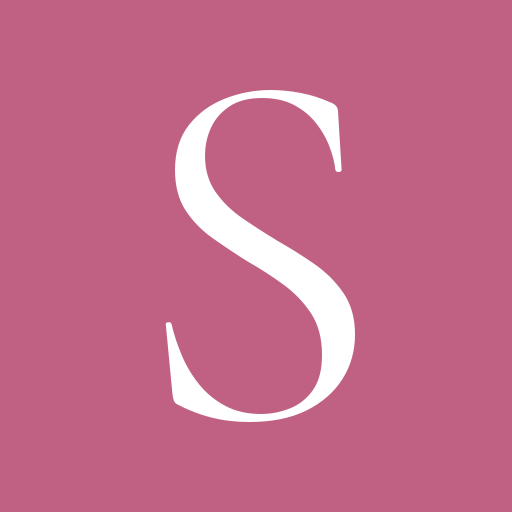
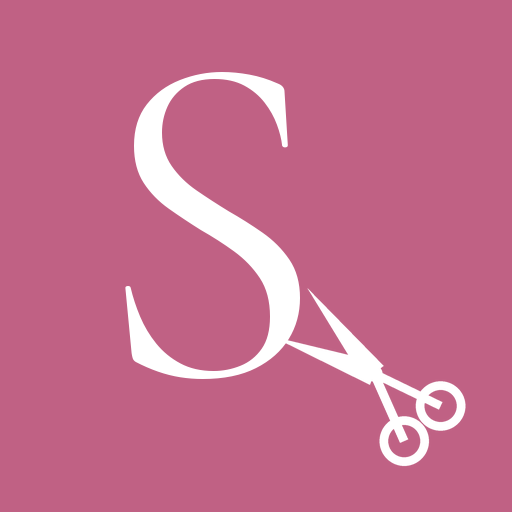
Las tijeras en el icono, con arte distinto por tamaño
El salón las pidió, y tenían razón: dicen "salón" al instante donde una
letra sola no dice nada. Las del logo no servían —59x42 px, borrosas al
ampliar—, así que van dibujadas en vector: las hojas son triángulos que
nacen anchos en el tornillo y mueren en punta, porque con grosor constante
se leen como dos palos.

Medido a cada tamaño: la S con las tijeras aguanta hasta 48 px y de ahí
para abajo las dos juntas se vuelven mancha. La pestaña del navegador usa
16 o 32. Así que el .ico lleva arte distinto en cada tamaño, que es para
lo que existe el formato: marca completa en 48, S sola en 32 y 16.

Comprobado extrayendo las tres caras del .ico y comparándolas contra los
dos dibujos: cada una coincide exacto con el que le toca (diferencia 0.00)
y no con el otro (8.4, 11.6 y 9.0).

Los iconos grandes —pantalla de inicio de iPhone, PWA a 192 y 512— llevan
siempre la marca completa, que ahí se ve entera.

Claude-Session: https://claude.ai/code/session_01MdQ4cBDsNs5P84nuUxicTy

diff --git a/stilo-salon/iconos.py b/stilo-salon/iconos.py
@@ -1,21 +1,23 @@
 #!/usr/bin/env python3
 """Genera el favicon y los iconos de la app desde cero.
 
-Por qué una "S" tipográfica y no el logo: el logo es una escritura de trazo
-finísimo, y a 16 px —el tamaño real de una pestaña— desaparece.  Peor: la
-palabra "Stilo" está escrita de un solo trazo continuo, sin un solo píxel
-vacío entre la S y la t, así que ni siquiera se puede recortar la inicial.
-Las tijeras sí se pueden aislar por color, pero miden 59x42 px en el
-original y estiradas a 512 quedan borrosas.
+Por qué no se usa el logo tal cual: la palabra "Stilo" está escrita de un
+solo trazo continuo —no hay una sola columna de píxeles vacía entre la S y
+la t, está comprobado—, así que la inicial no se puede recortar.  Las
+tijeras del logo sí se aíslan por color, pero miden 59x42 px y estiradas a
+512 quedan borrosas.  Por eso la S es tipográfica (Cormorant Garamond, la
+de los títulos del sitio) y las tijeras van dibujadas en vector aquí.
 
-La salida es la inicial en Cormorant Garamond, que es la tipografía de los
-títulos del sitio, blanca sobre el rosa de la marca.  Se lee a 16 px y en
-una barra de pestañas llena se distingue de un vistazo, que es lo único
-que le pedimos a un favicon.
+Por qué hay dos dibujos y no uno: la S con las tijeras se lee bien hasta 48
+px, y de ahí para abajo las dos cosas juntas se convierten en una mancha.
+La pestaña del navegador usa 16 o 32.  Así que el .ico lleva arte distinto
+en cada tamaño —para eso existe el formato—: la marca completa en 48, y la
+S sola en 32 y 16, donde es lo único que se distingue.  Los iconos grandes
+(pantalla de inicio, PWA) llevan siempre la marca completa.
 
     python3 iconos.py
 """
-import json, pathlib, urllib.request
+import json, math, pathlib, urllib.request
 from PIL import Image, ImageDraw, ImageFont
 
 RAIZ = pathlib.Path(__file__).parent
@@ -38,40 +40,82 @@ def fuente_ttf() -> pathlib.Path:
     return FUENTE_CACHE
 
 
-def marca(lado: int) -> Image.Image:
-    """La S centrada ópticamente por su caja real, no por la métrica.
+def tijeras(lado: int, color) -> Image.Image:
+    """Tijeras de peluquería, dibujadas al tamaño que se pidan.
 
-    El centrado por métrica deja la letra flotando alta, porque la caja de
-    la fuente reserva sitio para acentos y descendentes que la S no usa.
+    Se trazan a cuatro veces el tamaño final y se bajan con LANCZOS: así el
+    filo queda limpio sin depender del antialias del dibujante.  Las hojas
+    son triángulos que nacen anchos en el tornillo y mueren en punta, que es
+    lo que las hace legibles en chico; con grosor constante se leen como dos
+    palos.
     """
-    im = Image.new("RGBA", (lado, lado), ROSA)
+    S = lado * 4
+    im = Image.new("RGBA", (S, S), (0, 0, 0, 0))
     d = ImageDraw.Draw(im)
-    ruta = str(fuente_ttf())
-    pt = lado
-    while pt > 4:
-        f = ImageFont.truetype(ruta, pt)
+    px, py = S * 0.46, S * 0.50                      # el tornillo
+    pt = lambda a, r: (px + r * math.cos(math.radians(a)),
+                       py + r * math.sin(math.radians(a)))
+    for ang in (-160, -128):                          # las dos hojas
+        d.polygon([pt(ang + 90, S * 0.052), pt(ang, S * 0.46),
+                   pt(ang - 90, S * 0.052)], fill=color)
+    raro, g = S * 0.105, max(2, int(S * 0.038))
+    for ang in (26, 66):                              # brazos y aros
+        c = pt(ang, S * 0.315)
+        d.line([(px, py), c], fill=color, width=g)
+        d.ellipse([c[0] - raro, c[1] - raro, c[0] + raro, c[1] + raro],
+                  outline=color, width=g)
+    d.ellipse([px - S * 0.035, py - S * 0.035,
+               px + S * 0.035, py + S * 0.035], fill=color)
+    return im.resize((lado, lado), Image.LANCZOS)
+
+
+def _ese(im: Image.Image, ocupa: float, dx=0.0, dy=0.0) -> Image.Image:
+    """La S centrada por su caja real, no por la métrica de la fuente.
+
+    La métrica reserva sitio para acentos y descendentes que la S no usa, así
+    que centrar por ella deja la letra flotando alta.
+    """
+    d = ImageDraw.Draw(im)
+    L, ruta, pt_ = im.width, str(fuente_ttf()), im.width
+    while pt_ > 4:
+        f = ImageFont.truetype(ruta, pt_)
         x0, y0, x1, y1 = d.textbbox((0, 0), LETRA, font=f)
-        if (y1 - y0) <= lado * OCUPA:
+        if (y1 - y0) <= L * ocupa:
             break
-        pt -= 1
-    f = ImageFont.truetype(ruta, pt)
+        pt_ -= 1
+    f = ImageFont.truetype(ruta, pt_)
     x0, y0, x1, y1 = d.textbbox((0, 0), LETRA, font=f)
-    d.text(((lado - (x1 - x0)) / 2 - x0, (lado - (y1 - y0)) / 2 - y0),
-           LETRA, font=f, fill=BLANCO)
+    d.text(((L - (x1 - x0)) / 2 - x0 + L * dx,
+            (L - (y1 - y0)) / 2 - y0 + L * dy), LETRA, font=f, fill=BLANCO)
     return im
+
+
+def marca(lado: int) -> Image.Image:
+    """La marca completa: la S con las tijeras colgando de su cola.
+
+    Es la misma idea del logo, donde el rasgo final termina en las tijeras.
+    """
+    im = _ese(Image.new("RGBA", (lado, lado), ROSA), 0.60, -0.09, -0.06)
+    t = tijeras(int(lado * 0.46), BLANCO)
+    im.paste(t, (int(lado * 0.52), int(lado * 0.50)), t)
+    return im
+
+
+def inicial(lado: int) -> Image.Image:
+    """Solo la S, para los tamaños donde las tijeras ya no se distinguen."""
+    return _ese(Image.new("RGBA", (lado, lado), ROSA), 0.66)
 
 
 def main():
     assets = RAIZ / "assets"
-    # El .ico lleva los tres tamaños dentro: el navegador escoge. Cada uno se
-    # dibuja a su tamaño en vez de reescalar el grande, así el trazo no se
-    # adelgaza hasta desaparecer en el de 16.
-    caras = [marca(n) for n in (16, 32, 48)]
+    # 48 lleva la marca completa; 32 y 16 solo la inicial, porque ahí las
+    # tijeras ya no se ven y solo ensucian la letra.
+    caras = [inicial(16), inicial(32), marca(48)]
     caras[2].save(RAIZ / "favicon.ico", format="ICO",
-                  sizes=[(16, 16), (32, 32), (48, 48)])
+                  sizes=[(16, 16), (32, 32), (48, 48)],
+                  append_images=caras[:2])
 
-    # iOS no admite transparencia ni redondea por su cuenta en todas las
-    # versiones; el fondo sólido evita el cuadro negro.
+    # iOS no admite transparencia; el fondo sólido evita el cuadro negro.
     marca(180).convert("RGB").save(RAIZ / "apple-touch-icon.png")
     for n in (192, 512):
         marca(n).convert("RGB").save(assets / f"icon-{n}.png")
@@ -89,8 +133,9 @@ def main():
         "start_url": "/",
     }, ensure_ascii=False, indent=2) + "\n", encoding="utf-8")
 
-    print("iconos listos: favicon.ico · apple-touch-icon.png · "
-          "assets/icon-192.png · assets/icon-512.png · site.webmanifest")
+    print("iconos listos: favicon.ico (S sola en 16 y 32, marca completa en 48) · "
+          "apple-touch-icon.png · assets/icon-192.png · assets/icon-512.png · "
+          "site.webmanifest")
 
 
 if __name__ == "__main__":
